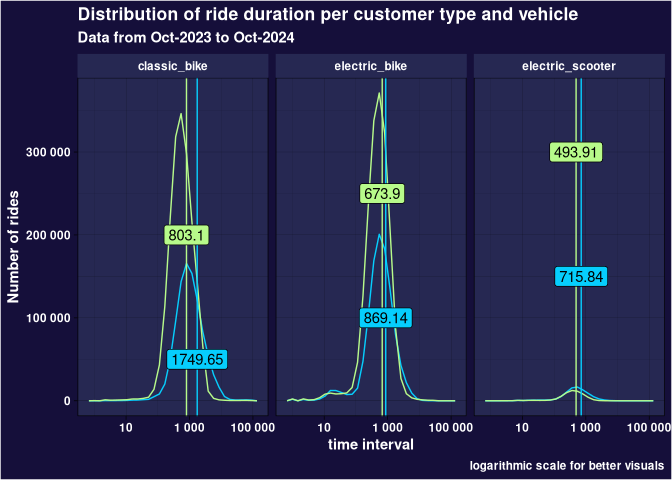
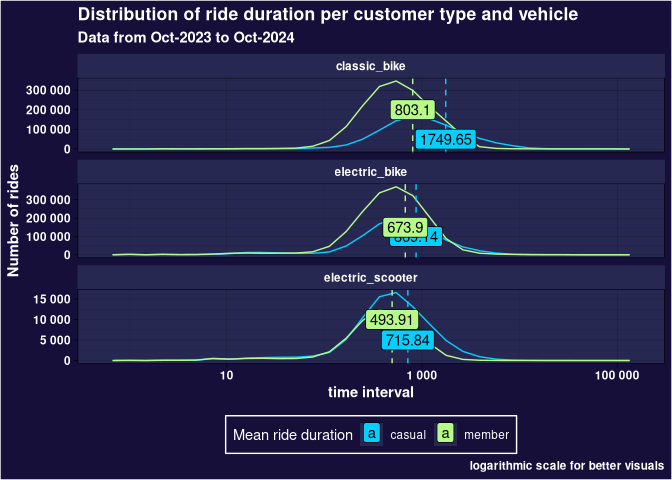
Improve format of graph of distribution of ride time

Changed region(s): [[0.0312, 0.0938, 1.0, 0.9688], [0.0, 0.3438, 0.125, 0.6562], [0.0312, 0.5938, 0.125, 0.7188]]

diff --git a/README.md b/README.md
@@ -304,14 +304,14 @@ stations |>
   kable()
 ```
 
-|      lat | name                       | short_name | station_id                           | capacity |       lon | region_id | address |
-|---------:|:---------------------------|:-----------|:-------------------------------------|---------:|----------:|:----------|:--------|
-| 41.96861 | Milwaukee Ave & Ainslie St | 24370      | 1969221526359528022                  |       19 | -87.76108 | NA        | NA      |
-| 41.79375 | Mozart St & 55th St        | 24267      | 1966307477149012058                  |       11 | -87.69472 | NA        | NA      |
-| 41.81574 | Western Ave & 43rd St      | 24245      | 1943244109954931024                  |       15 | -87.68489 | NA        | NA      |
-| 41.93852 | Nagle Ave & Belmont Ave    | 24324      | 1981488728284770592                  |       16 | -87.78735 | NA        | NA      |
-| 41.74656 | Stony Island Ave & 82nd St | 583        | a3b29fae-a135-11e9-9cda-0a87ae2ba916 |       11 | -87.58601 | NA        | NA      |
-| 41.99008 | Kedvale Ave & Peterson Ave | 24159      | 1929967657204564894                  |       15 | -87.73171 | NA        | NA      |
+| station_id                           |      lat |       lon | name                         | capacity | short_name   | region_id | address |
+|:-------------------------------------|---------:|----------:|:-----------------------------|---------:|:-------------|:----------|:--------|
+| 1955905507044284968                  | 41.92227 | -87.80202 | Nordica Ave & Medill Ave     |       15 | 21378        | NA        | NA      |
+| 1934289361049585738                  | 41.82810 | -87.69468 | California Ave & 36th St     |       15 | 21338        | NA        | NA      |
+| a3b0fae6-a135-11e9-9cda-0a87ae2ba916 | 42.01270 | -87.66606 | Glenwood Ave & Touhy Ave     |       15 | 525          | NA        | NA      |
+| a3ad4d1b-a135-11e9-9cda-0a87ae2ba916 | 41.81409 | -87.59701 | Woodlawn Ave & Lake Park Ave |       15 | KA1503000065 | NA        | NA      |
+| a3acdae2-a135-11e9-9cda-0a87ae2ba916 | 41.78008 | -87.62975 | Wentworth Ave & 63rd St      |       11 | KA1503000025 | NA        | NA      |
+| a3a9f76a-a135-11e9-9cda-0a87ae2ba916 | 41.92153 | -87.70732 | Kedzie Ave & Palmer Ct       |       15 | 13292        | NA        | NA      |
 
 ``` r
 stations |>
@@ -322,14 +322,14 @@ stations |>
 
 | Value      | NA’s |
 |:-----------|-----:|
-| lat        |    0 |
-| name       |    0 |
-| android    |    0 |
-| ios        |    0 |
-| short_name |  872 |
 | station_id |    0 |
-| capacity   |    0 |
+| lat        |    0 |
 | lon        |    0 |
+| name       |    0 |
+| capacity   |    0 |
+| ios        |    0 |
+| android    |    0 |
+| short_name |  872 |
 | region_id  | 1787 |
 | address    |  929 |
 
@@ -386,8 +386,8 @@ stations |>
 | a3a3a282-a135-11e9-9cda-0a87ae2ba916 | TA1306000014 | Wilton Ave & Diversey Pkwy        | -87.65270 | 41.93242 |
 | d53ae727-5265-4b8e-a6ca-2a36dc0345c4 | chargingstx2 | Wilton Ave & Diversey Pkwy\*      | -87.65270 | 41.93242 |
 | 1827484051430132402                  | NA           | Public Rack - Forest Glen Station | -87.75552 | 41.97871 |
-| 1677249871073777806                  | NA           | Public Rack - Laflin St & 51st St | -87.66208 | 41.80135 |
 | 1715823821144840768                  | NA           | Public Rack - Laflin St &51st ST  | -87.66208 | 41.80135 |
+| 1677249871073777806                  | NA           | Public Rack - Laflin St & 51st St | -87.66208 | 41.80135 |
 | 1827474404723843690                  | NA           | Public Rack - Peterson Park       | -87.75552 | 41.97871 |
 
 Stations with repeated coordinates
@@ -402,12 +402,12 @@ stations |>
 
 | station_id          | short_name | name                   |       lon |      lat |
 |:--------------------|:-----------|:-----------------------|----------:|---------:|
-| 1967727360320698512 | 24211      | Western Ave & Lake St  | -87.68668 | 41.88481 |
 | 1978857650118994914 | 24409      | Indiana Ave & 133rd St | -87.61719 | 41.65380 |
+| 1967727360320698512 | 24211      | Western Ave & Lake St  | -87.68668 | 41.88481 |
 | 1984042930424753006 | 24394      | Steelworkers Park      | -87.53091 | 41.73793 |
-| 1448642188027369090 | NA         | Steelworkers Park      | -87.53107 | 41.73825 |
-| 1594046379513303720 | NA         | Western Ave & Lake St  | -87.68585 | 41.88461 |
 | 1448642188027369086 | NA         | Indiana Ave & 133rd St | -87.61705 | 41.65356 |
+| 1594046379513303720 | NA         | Western Ave & Lake St  | -87.68585 | 41.88461 |
+| 1448642188027369090 | NA         | Steelworkers Park      | -87.53107 | 41.73825 |
 
 Stations with repeated name
 
@@ -524,15 +524,15 @@ df |>
 kable(summary(df))
 ```
 
-|     | ride_id          | rideable_type    | started_at                     | ended_at                       | start_station_name | end_station_name | member_casual    | start_station_id | start_lon     | start_lat     | end_station_id   | end_lon       | end_lat       | ride_duration   | station_fee   |
-|:----|:-----------------|:-----------------|:-------------------------------|:-------------------------------|:-------------------|:-----------------|:-----------------|:-----------------|:--------------|:--------------|:-----------------|:--------------|:--------------|:----------------|:--------------|
-|     | Length:5845369   | Length:5845369   | Min. :2023-10-01 00:00:05.00   | Min. :2023-10-01 00:02:02.00   | Length:5845369     | Length:5845369   | Length:5845369   | Length:5845369   | Min. :-87.8   | Min. :41.6    | Length:5845369   | Min. :-87.8   | Min. :41.6    | Min. : 1.0      | Mode :logical |
-|     | Class :character | Class :character | 1st Qu.:2024-02-27 04:55:42.00 | 1st Qu.:2024-02-27 05:16:32.00 | Class :character   | Class :character | Class :character | Class :character | 1st Qu.:-87.7 | 1st Qu.:41.9  | Class :character | 1st Qu.:-87.7 | 1st Qu.:41.9  | 1st Qu.: 331.0  | FALSE:4762233 |
-|     | Mode :character  | Mode :character  | Median :2024-06-06 13:01:48.50 | Median :2024-06-06 13:21:01.54 | Mode :character    | Mode :character  | Mode :character  | Mode :character  | Median :-87.6 | Median :41.9  | Mode :character  | Median :-87.6 | Median :41.9  | Median : 580.0  | TRUE :1083136 |
-|     |                  |                  | Mean :2024-05-08 13:02:16.15   | Mean :2024-05-08 13:17:42.60   |                    |                  |                  |                  | Mean :-87.6   | Mean :41.9    |                  | Mean :-87.6   | Mean :41.9    | Mean : 926.2    |               |
-|     |                  |                  | 3rd Qu.:2024-08-05 11:48:57.01 | 3rd Qu.:2024-08-05 12:06:05.80 |                    |                  |                  |                  | 3rd Qu.:-87.6 | 3rd Qu.:41.9  |                  | 3rd Qu.:-87.6 | 3rd Qu.:41.9  | 3rd Qu.: 1028.0 |               |
-|     |                  |                  | Max. :2024-09-30 23:54:05.54   | Max. :2024-09-30 23:59:52.55   |                    |                  |                  |                  | Max. :-87.5   | Max. :42.1    |                  | Max. :-87.5   | Max. :42.1    | Max. :90562.0   |               |
-|     |                  |                  |                                |                                |                    |                  |                  |                  | NA’s :1070550 | NA’s :1070550 |                  | NA’s :1097434 | NA’s :1097434 |                 |               |
+|     | ride_id          | rideable_type    | started_at                     | ended_at                       | start_station_name | end_station_name | member_casual    | start_station_id | start_lon     | start_lat     | end_station_id   | end_lon       | end_lat       | ride_duration |
+|:----|:-----------------|:-----------------|:-------------------------------|:-------------------------------|:-------------------|:-----------------|:-----------------|:-----------------|:--------------|:--------------|:-----------------|:--------------|:--------------|:--------------|
+|     | Length:5847103   | Length:5847103   | Min. :2023-10-01 00:00:05.00   | Min. :2023-10-01 00:02:02.00   | Length:5847103     | Length:5847103   | Length:5847103   | Length:5847103   | Min. :-87.8   | Min. :41.6    | Length:5847103   | Min. :-87.8   | Min. :41.6    | Min. :-999391 |
+|     | Class :character | Class :character | 1st Qu.:2024-02-27 02:45:42.00 | 1st Qu.:2024-02-27 03:43:53.50 | Class :character   | Class :character | Class :character | Class :character | 1st Qu.:-87.7 | 1st Qu.:41.9  | Class :character | 1st Qu.:-87.7 | 1st Qu.:41.9  | 1st Qu.: 331  |
+|     | Mode :character  | Mode :character  | Median :2024-06-06 12:51:30.67 | Median :2024-06-06 13:09:38.19 | Mode :character    | Mode :character  | Mode :character  | Mode :character  | Median :-87.6 | Median :41.9  | Mode :character  | Median :-87.6 | Median :41.9  | Median : 580  |
+|     |                  |                  | Mean :2024-05-08 12:54:21.68   | Mean :2024-05-08 13:09:46.89   |                    |                  |                  |                  | Mean :-87.6   | Mean :41.9    |                  | Mean :-87.6   | Mean :41.9    | Mean : 925    |
+|     |                  |                  | 3rd Qu.:2024-08-05 11:40:13.60 | 3rd Qu.:2024-08-05 11:57:43.35 |                    |                  |                  |                  | 3rd Qu.:-87.6 | 3rd Qu.:41.9  |                  | 3rd Qu.:-87.6 | 3rd Qu.:41.9  | 3rd Qu.: 1028 |
+|     |                  |                  | Max. :2024-09-30 23:54:05.54   | Max. :2024-09-30 23:59:52.55   |                    |                  |                  |                  | Max. :-87.5   | Max. :42.1    |                  | Max. :-87.5   | Max. :42.1    | Max. : 90562  |
+|     |                  |                  |                                |                                |                    |                  |                  |                  | NA’s :1071544 | NA’s :1071544 |                  | NA’s :1098661 | NA’s :1098661 |               |
 
 We have now finished our data cleaning process. Now that our data is
 ready, let’s continue with our analysis.
@@ -569,27 +569,39 @@ df |>
   ggplot() +
   geom_freqpoly(
     data = df |> select(member_casual, rideable_type, ride_duration),
-    aes(x = ride_duration, color = member_casual)
+    aes(x = ride_duration, color = member_casual),
+    show.legend = FALSE
   ) +
-  geom_vline(aes(xintercept = mean_duration, color = member_casual)) +
+  geom_vline(
+    aes(xintercept = mean_duration, color = member_casual),
+    linetype = 2,
+    show.legend = FALSE
+  )+
   geom_label(
     aes(x = mean_duration, label = mean_duration, fill = member_casual),
-    y = seq(50000, 300000, 50000)
+    y = c(50000, 100000, 5000, 200000, 150000, 10000)
   ) +
   scale_x_log10(label = label_number()) +
   scale_y_continuous(label = label_number()) +
-  facet_wrap(~rideable_type) +
+  facet_wrap(~rideable_type, dir = "v", scales = "free_y") +
   global_theme() +
   labs(
     y = "Number of rides",
     x = "time interval",
     title = "Distribution of ride duration per customer type and vehicle",
     subtitle = "Data from Oct-2023 to Oct-2024",
-    caption = "logarithmic scale for better visuals"
+    caption = "logarithmic scale for better visuals",
+    fill = "Mean ride duration",
+    color = ""
   ) +
   scale_color_manual(values = c("#06CEFD", "#B7FA8A")) +
   scale_fill_manual(values = c("#06CEFD", "#B7FA8A")) +
-  theme(legend.position = "none")
+  theme(
+    legend.background = element_rect(fill = "#150F3A", color = "white"),
+    legend.text = element_text(color = "white"),
+    legend.title = element_text(color = "white"),
+    legend.position = "bottom"
+  )
 ```
 
 ![](README_files/figure-commonmark/unnamed-chunk-13-1.png)
